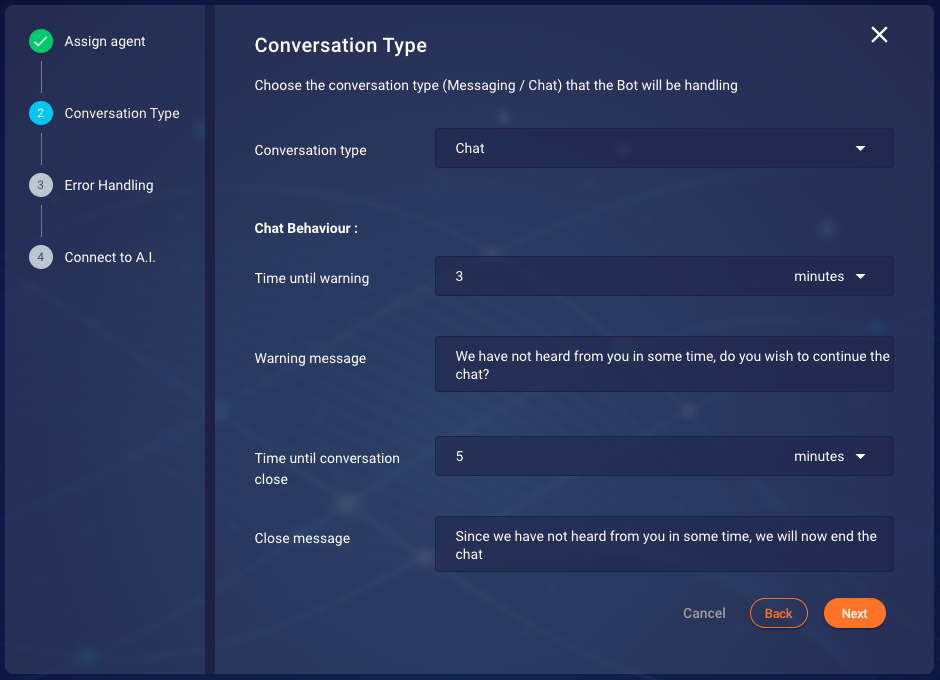
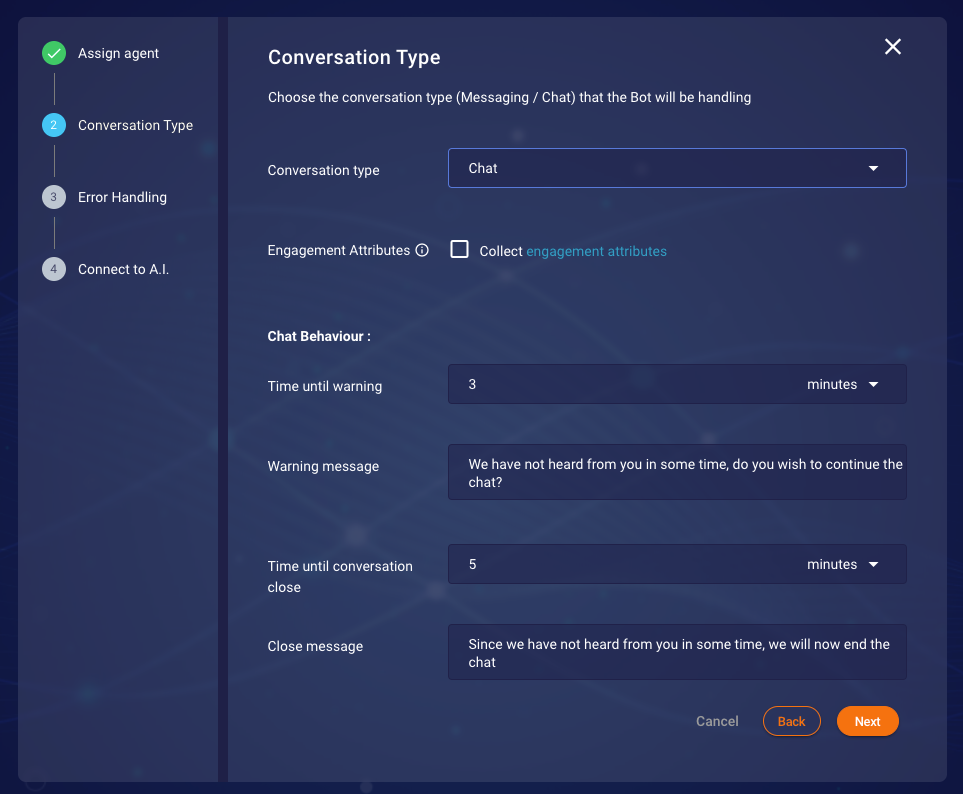
- Initial Commit

diff --git a/pages/documents/ConversationalAI/ThirdPartyBots/GettingStarted.md b/pages/documents/ConversationalAI/ThirdPartyBots/GettingStarted.md
@@ -22,7 +22,7 @@ indicator:
 External Bot frameworks and Bot builders can be enabled and managed through LiveEngage just like a normal human agent.
 
 Using Third-Party Bots, you can provision a connector for IBM Watson, Google Dialogflow, Amazon Lex, Microsoft Bot
- Framework or leverage LivePerson Functions with the Custom Integrations Option.
+Framework or leverage LivePerson Functions with the Custom Integrations Option.
 
 {: .important}
 If you need to connect a external bot that does not have a pre-built connector, see [this document](bot-connectors-custom-third-party-bots.html) for instructions.
@@ -63,7 +63,6 @@ The Bot is in the delayed state and will not accept new conversation or process 
 
 In this state the bot will try to restart automatically once every minute until the interruption is resolved.
 
-
 ### Limitations
 
 #### Supported customer content
@@ -75,7 +74,6 @@ The send identifier is **com.liveperson.bot-connectors.consumer.send-file**
 #### Support for different messaging channels and the corresponding rich content
 
 The Bot Connector system is designed to support [all relevant rich content](getting-started-with-rich-messaging-rich-messaging-channel-capabilities.html), since it only forwards the received structured content and metadata to LivePerson's messaging and chat service. We have verified and tested the support for **Web Messaging**, **Facebook** and **Apple Business Chat**. All other channels are not verified, but should work if you send the right structured content for the channel. If you experience any issues, please contact LivePerson support or your account team.
-
 
 #### Creating and starting Bots
 
@@ -101,15 +99,18 @@ Please note that your bot setup should always return an intent or an action as a
 
   <img style="width:600px" src="img/dialogflowversion2/image_0.png">
 
-{:start="2"}  
+{:start="2"}
+
 2. Add login method as "API key" and generate new API key for the new user
 
    <img style="width:600px" src="img/dialogflowversion2/image_1.png">
 
 {:start="3"}
+
 3. Make sure the user has chat and/or messaging slot > 0 based on the target channel of the bot.
 
 {:start="4"}
+
 4. Set Max No of Live Chats
 
    - If Chat in the drop down select - Value > 1.
@@ -117,13 +118,14 @@ Please note that your bot setup should always return an intent or an action as a
    - If Messaging Max No of Live Chats -> **No Chats and Max No of Messaging Conversations to Custom Setting and enter a value greater than 0**
 
 {:start="5"}
+
 5. Find api key name in bot user profile
 
    <img style="width:400px" src="img/dialogflowversion2/image_2.png">
 
 ---
 
-### Provision a connector 
+### Provision a connector
 
 To access Third-Party Bots, contact your Account Manager to enable the the feature in LiveEngage for your account.
 
@@ -138,38 +140,83 @@ Follow the steps below to add a new bot.
 2. Click “+ Add Bot” in the bot table
 
    <img style="width:800px" src="img/botconnectordashboard/add_new_bot.png">
+
 {:start="3"}
+
 3. Assign agent: Create a new Bot Agent or select an existing one
 
 4. Choose conversation type: Chat or Messaging
 
-Settings for Chat:
+Settings for Chat: <br />
 <img style="width:900px" src="img/botconnectordashboard/chat_settings.png">
 
-- Time until warning: Set up the time span after which the consumer will get an inactivity warning.
+<ul>
+  <li>
+  Time until warning: Set up the time span after which the consumer will get an inactivity warning.
+  </li>
+  <li>
+  Warning message: The warning message the chat consumer gets if he reaches the threshold.
+  </li>
+  <li>
+  Time until conversation close: Set up the time duration after which the consumer chat conversation will be closed if the customer is inactive
+  </li>
+  <li>
+  Close message: The message which the consumer will receive prior to closing the conversation
+  </li>
+</ul>
 
-- Warning message: The warning message the chat consumer gets if he reaches the threshold.
-
-- Time until conversation close: Set up the time duration after which the consumer chat conversation will be closed if the customer is inactive
-
-- Close message: The message which the consumer will receive prior to closing the conversation
-
-Settings for Messaging:
+Settings for Messaging: <br />
 <img style="width:900px" src="img/botconnectordashboard/messaging_settings.png">
 
 - No special settings are needed for messaging bots
+
+Settings for Engagement Attributes: <br />
+
+Third-Party bot allows user to collect engagement attributes ([documentation](engagement-attributes-types-of-engagement-attributes.html)) using this options. Once this option is checked, then on **_start_** of every conversation engagement attributes are selected and sent as context information. Information related ot Engagement Attributes usage per AI vendor can be found in relevant links below:
+
+<ul>
+  <li>
+    DialogFlow V1
+  </li>
+  <li>
+    DialogFlow V2
+  </li>
+  <li>
+    Amazon Lex
+  </li>
+  <li>
+    Microsoft Bot Framework
+  </li>
+  <li>
+    Watson Assistant V1
+  </li>
+  <li>
+     Watson Assistant V2
+  </li>
+ 
+</ul>
+
 {:start="5"}
+
 5. Setup Escalation: Skill to transfer to in the event of an error during connection to the AI service
 
   <img style="width:900px" src="img/botconnectordashboard/error_handling.png">
 
-- Transfer message to Customer: Default escalation message to the consumer in case the bot encounters an error
-
-- Transfer message to Agent: Message to the Agent from the escalating bot which will be provided together with the conversation when it is transferred
-
-- Transfer failure message: Message to the customer in case the escalation to the default escalation skill did not work.
-
-- Transfer to skill: Default escalation skill the bot should escalate to in case of any error.
+<ul>
+  <li>
+    Transfer message to Customer: Default escalation message to the consumer in case the bot encounters an error
+  </li>
+  <li>
+    Transfer message to Agent: Message to the Agent from the escalating bot which will be provided together with the conversation when it is transferred
+  </li>
+  <li>
+    Transfer failure message: Message to the customer in case the escalation to the default escalation skill did not work.
+  </li>
+  <li>
+    Transfer to skill: Default escalation skill the bot should escalate to in case of any error.
+  </li>
+ 
+</ul>
 
 **Note**: if no other skills are configured, it might be that the bot will escalate the conversation to itself. However in this case only new messages will be processed.
 
